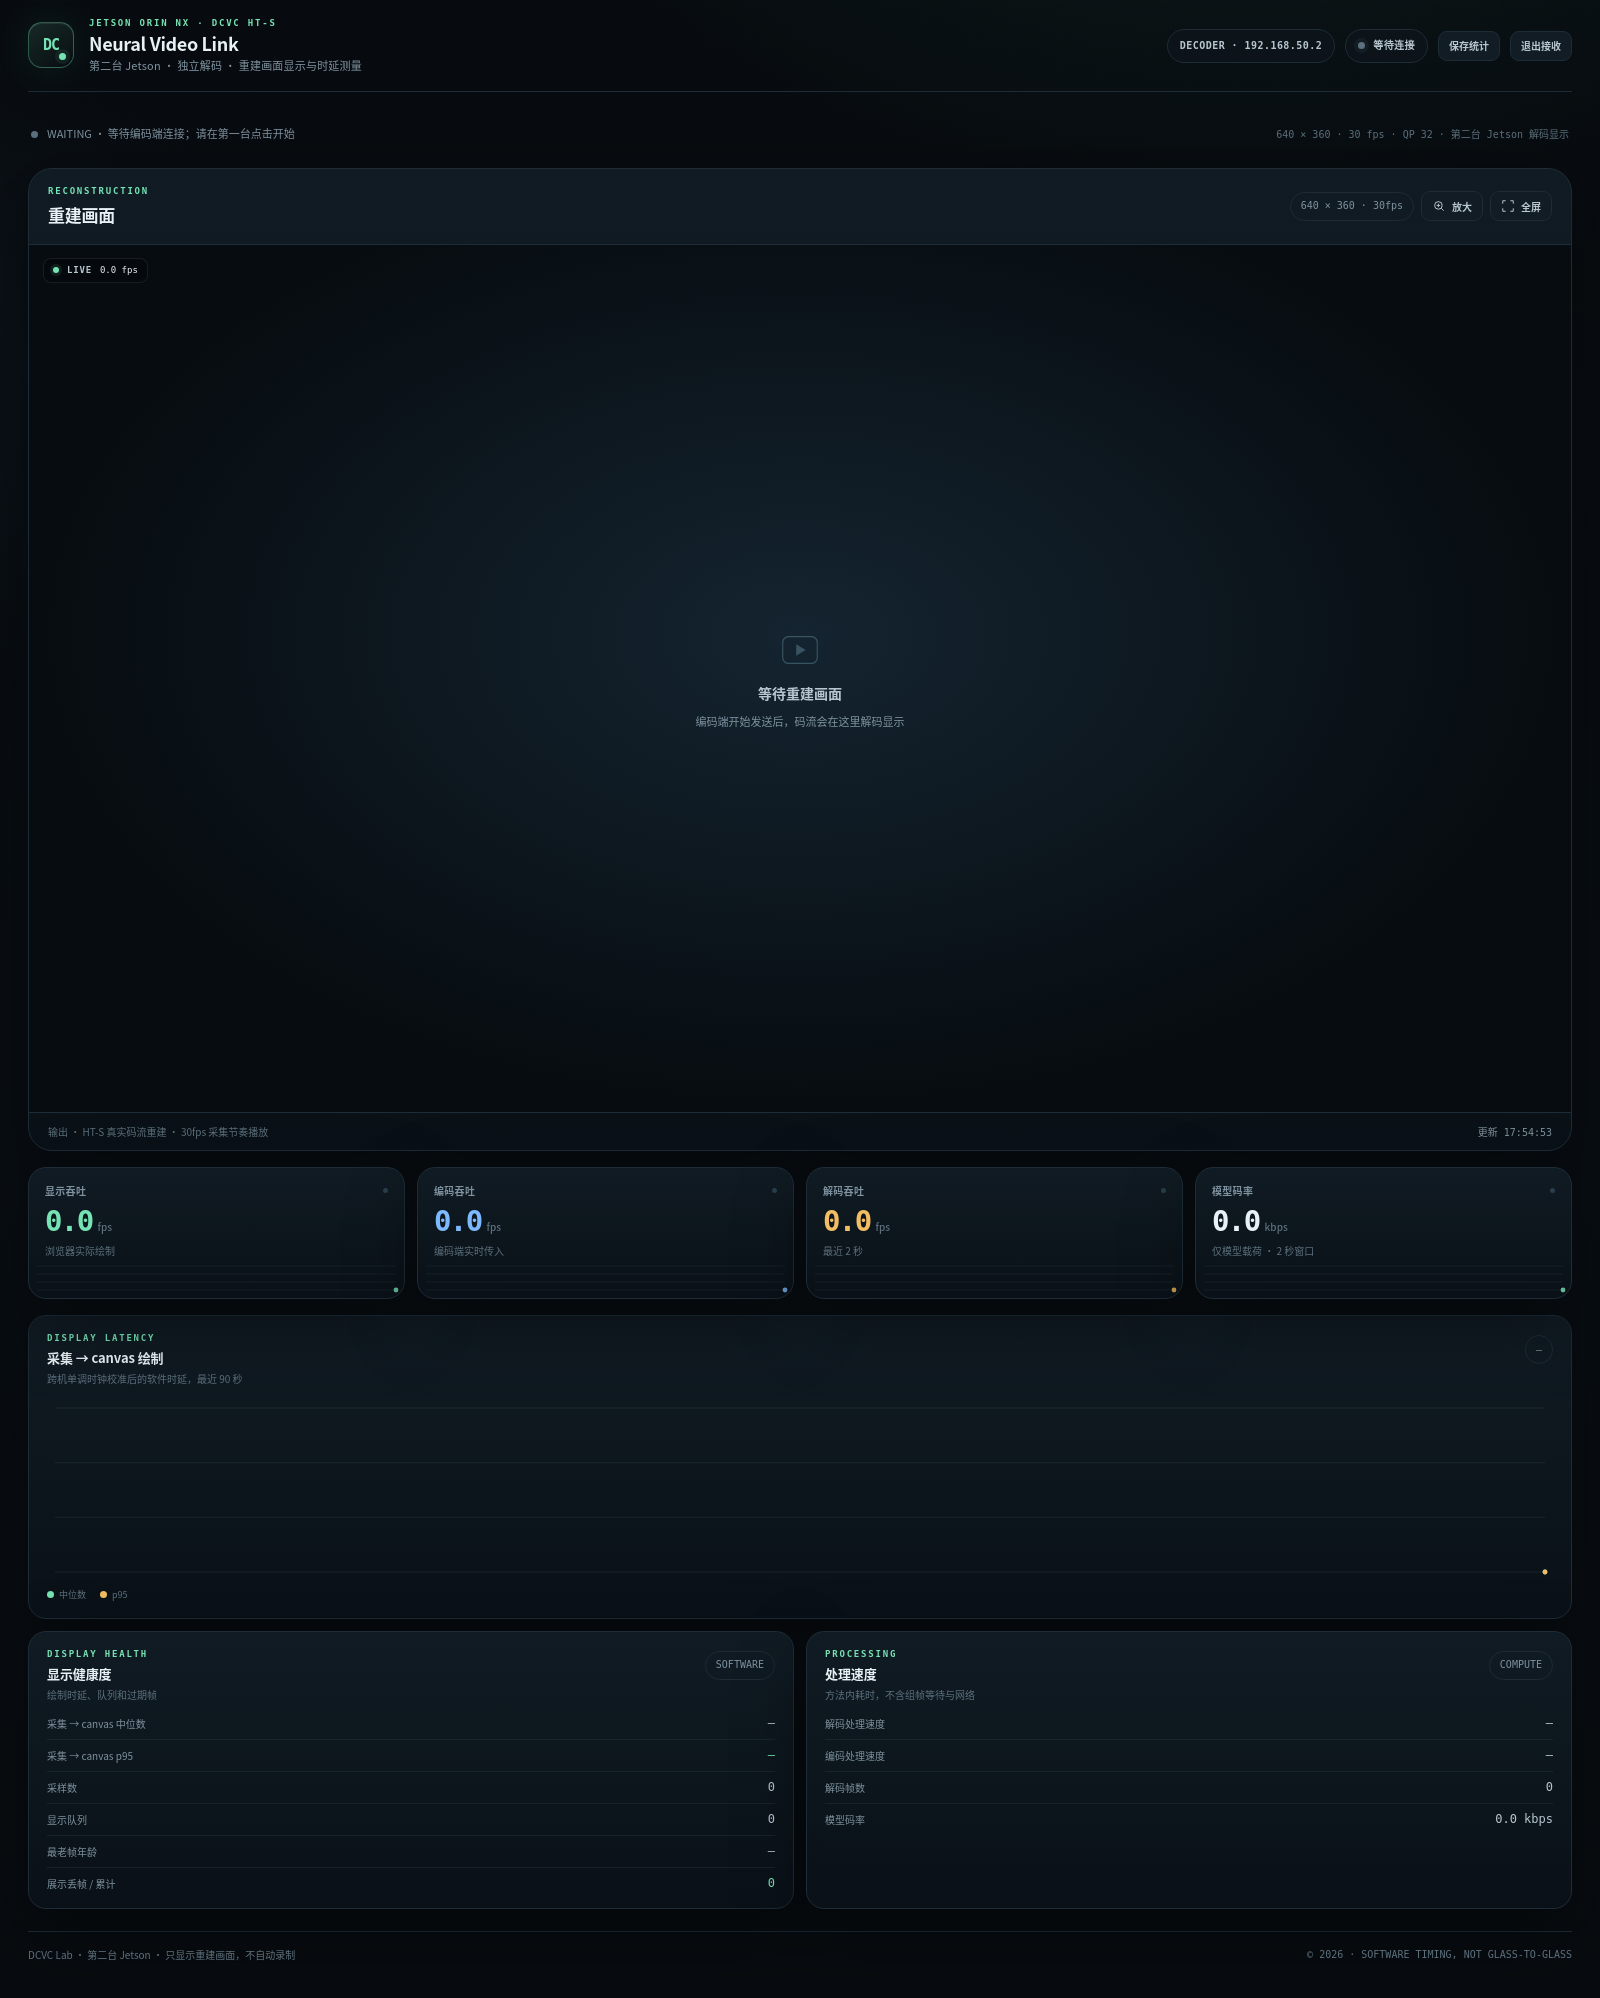
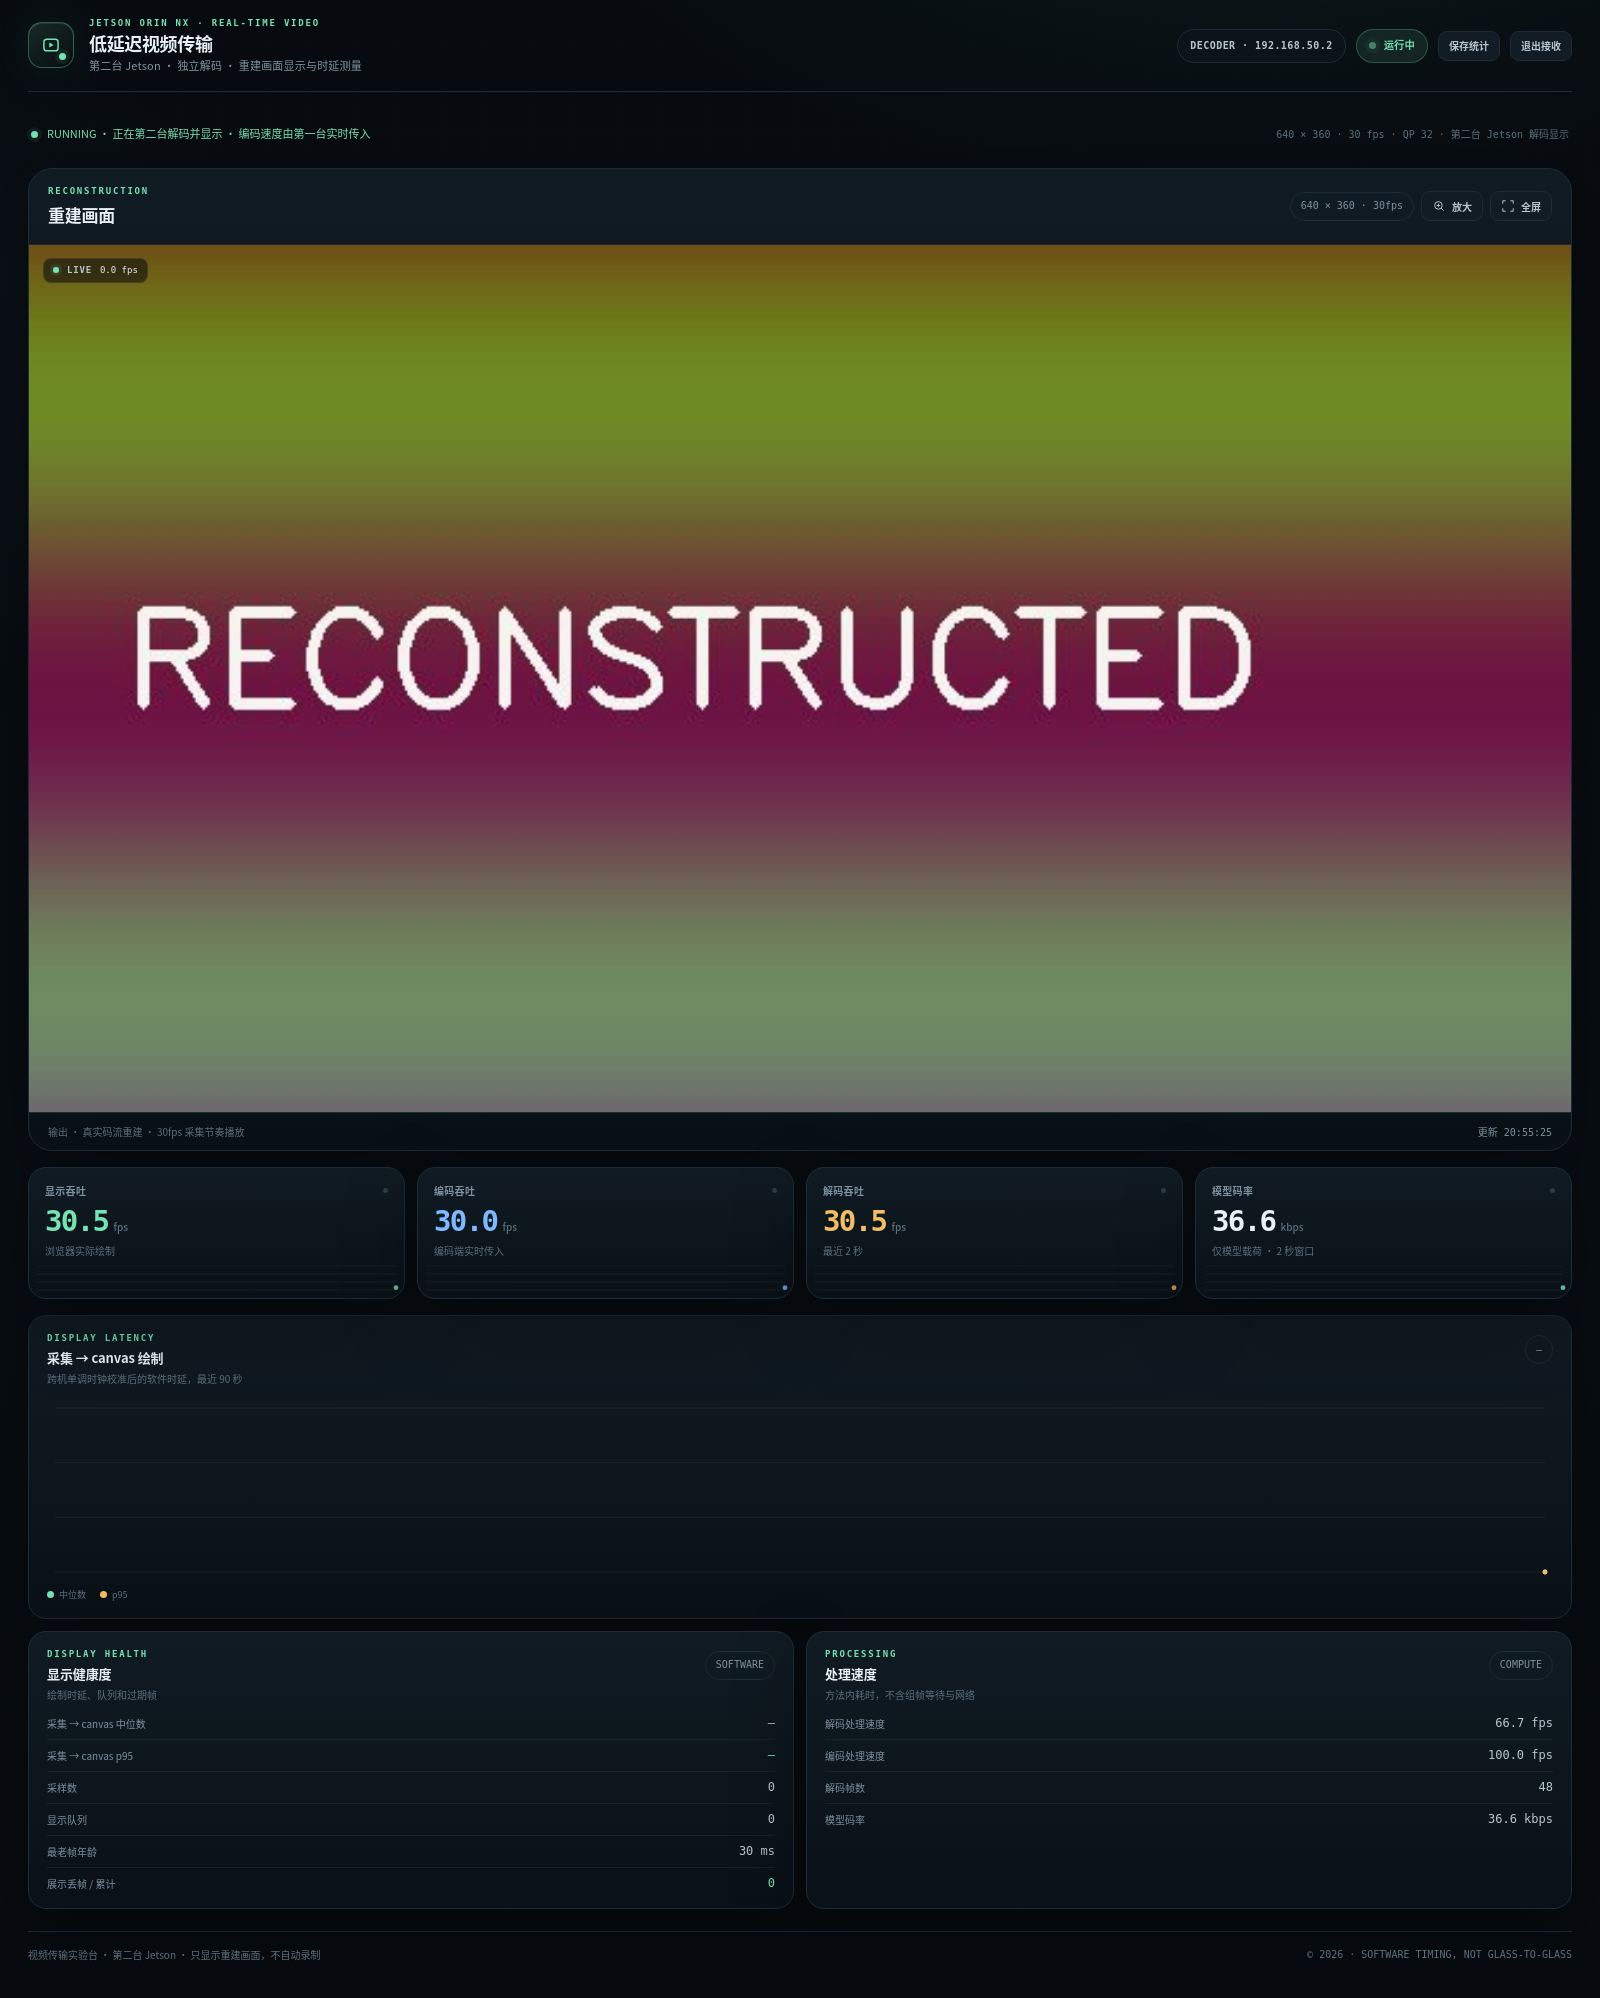
Remove codec branding from presentation pages

diff --git a/demo/web/encoder.html b/demo/web/encoder.html
@@ -4,7 +4,7 @@
   <meta charset="utf-8">
   <meta name="viewport" content="width=device-width, initial-scale=1">
   <meta name="color-scheme" content="dark">
-  <title>DCVC Lab · 编码控制台</title>
+  <title>视频传输控制台</title>
   <link rel="icon" href="/assets/favicon.svg" type="image/svg+xml">
   <link rel="stylesheet" href="/assets/style.css">
 </head>
@@ -12,11 +12,11 @@
   <div class="app">
     <header class="topbar">
       <div class="brand">
-        <div class="brand-mark" aria-hidden="true">DC</div>
+        <div class="brand-mark" aria-hidden="true"><svg viewBox="0 0 24 24" fill="none" stroke="currentColor" stroke-width="1.8" aria-hidden="true"><rect x="3.5" y="5" width="17" height="14" rx="3.5"/><path d="m10 9 5 3-5 3V9Z" fill="currentColor" stroke="none"/></svg></div>
         <div class="brand-copy">
-          <span class="eyebrow">JETSON ORIN NX · DCVC HT-S</span>
-          <h1>Neural Video Link</h1>
-          <p>低码率神经视频压缩 · 双机有线链路 · 端到端延迟实验台</p>
+          <span class="eyebrow">JETSON ORIN NX · REAL-TIME VIDEO</span>
+          <h1>低延迟视频传输</h1>
+          <p>实时采集 · 编码 · 有线传输 · 双机解码 · 端到端延迟实验台</p>
         </div>
       </div>
       <div class="top-meta">
@@ -189,7 +189,7 @@
               <div class="pipeline-bar"><span class="wait" id="pipe-wait" style="width:0"></span><span class="encode" id="pipe-encode" style="width:0"></span><span class="decode" id="pipe-decode" style="width:0"></span></div>
               <div class="pipeline-legend">
                 <div><small>组帧等待</small><b id="lat-wait">—</b></div>
-                <div><small>DCVC 编码</small><b id="lat-encode">—</b></div>
+                <div><small>模型编码</small><b id="lat-encode">—</b></div>
                 <div><small>远端解码</small><b id="lat-decode">—</b></div>
               </div>
             </div>
@@ -217,7 +217,7 @@
     </main>
 
     <footer class="app-footer">
-      <span>DCVC Lab · 本地运行 · 不自动录制 · 统计数据不含视频</span>
+      <span>视频传输实验台 · 本地运行 · 不自动录制 · 统计数据不含视频</span>
       <span>© <span id="footer-year">2026</span> · SOFTWARE TIMING, NOT GLASS-TO-GLASS</span>
     </footer>
   </div>

diff --git a/demo/web/decoder.html b/demo/web/decoder.html
@@ -4,7 +4,7 @@
   <meta charset="utf-8">
   <meta name="viewport" content="width=device-width, initial-scale=1">
   <meta name="color-scheme" content="dark">
-  <title>DCVC Lab · 解码显示端</title>
+  <title>视频解码显示端</title>
   <link rel="icon" href="/assets/favicon.svg" type="image/svg+xml">
   <link rel="stylesheet" href="/assets/style.css">
 </head>
@@ -12,10 +12,10 @@
   <div class="app">
     <header class="topbar">
       <div class="brand">
-        <div class="brand-mark" aria-hidden="true">DC</div>
+        <div class="brand-mark" aria-hidden="true"><svg viewBox="0 0 24 24" fill="none" stroke="currentColor" stroke-width="1.8" aria-hidden="true"><rect x="3.5" y="5" width="17" height="14" rx="3.5"/><path d="m10 9 5 3-5 3V9Z" fill="currentColor" stroke="none"/></svg></div>
         <div class="brand-copy">
-          <span class="eyebrow">JETSON ORIN NX · DCVC HT-S</span>
-          <h1>Neural Video Link</h1>
+          <span class="eyebrow">JETSON ORIN NX · REAL-TIME VIDEO</span>
+          <h1>低延迟视频传输</h1>
           <p>第二台 Jetson · 独立解码 · 重建画面显示与时延测量</p>
         </div>
       </div>
@@ -55,7 +55,7 @@
             <div class="stage-hud"><i class="live-dot"></i>LIVE <span class="fps" id="fps-decoded">0.0 fps</span></div>
           </div>
           <footer class="stage-foot">
-            <span>输出 · HT-S 真实码流重建 · 30fps 采集节奏播放</span>
+            <span>输出 · 真实码流重建 · 30fps 采集节奏播放</span>
             <span id="stage-clock">浏览器绘制实测</span>
           </footer>
         </article>
@@ -132,7 +132,7 @@
     </main>
 
     <footer class="app-footer">
-      <span>DCVC Lab · 第二台 Jetson · 只显示重建画面，不自动录制</span>
+      <span>视频传输实验台 · 第二台 Jetson · 只显示重建画面，不自动录制</span>
       <span>© <span id="footer-year">2026</span> · SOFTWARE TIMING, NOT GLASS-TO-GLASS</span>
     </footer>
   </div>

diff --git a/demo/web/common.js b/demo/web/common.js
@@ -1,5 +1,5 @@
 /* Shared browser helpers for the encoder and decoder consoles. */
-const DCVC = window.DCVC = window.DCVC || {running: false, state: null};
+const APP = window.APP = window.APP || {running: false, state: null};
 const $ = (selector, root = document) => root.querySelector(selector);
 const $$ = (selector, root = document) => Array.from(root.querySelectorAll(selector));
 const clamp = (value, low, high) => Math.min(high, Math.max(low, value));
@@ -108,7 +108,7 @@ async function downloadReport() {
   const matched = /filename=\"?([^\";]+)\"?/.exec(disposition);
   const link = document.createElement('a');
   link.href = URL.createObjectURL(blob);
-  link.download = matched ? matched[1] : 'dcvc-report.json';
+  link.download = matched ? matched[1] : 'video-report.json';
   document.body.append(link);
   link.click();
   link.remove();
@@ -311,7 +311,7 @@ function startFrameLoop({kind, canvasId, fpsId, stale = false, onDraw = null}) {
             drawn += 1;
             if (onDraw) onDraw({sequence: frameSequence, captureUs, drawUs});
           }
-        } else if (response.status === 204 && !DCVC.running) {
+        } else if (response.status === 204 && !APP.running) {
           sequence = 0;
         }
       } catch (error) {
@@ -324,7 +324,7 @@ function startFrameLoop({kind, canvasId, fpsId, stale = false, onDraw = null}) {
         started = now;
         reportDraws();
       }
-      await sleep(Math.max(0, (DCVC.running ? 8 : 120) - (performance.now() - tick)));
+      await sleep(Math.max(0, (APP.running ? 8 : 120) - (performance.now() - tick)));
     }
   })();
 }
@@ -423,7 +423,7 @@ function setupDialogs() {
     if (dialog) {
       if (button.dataset.dialogOpen === 'details-dialog') {
         const pre = document.getElementById('details-json');
-        if (pre) pre.textContent = JSON.stringify(DCVC.state || {}, null, 2);
+        if (pre) pre.textContent = JSON.stringify(APP.state || {}, null, 2);
       }
       dialog.showModal();
     }

diff --git a/demo/web/encoder.js b/demo/web/encoder.js
@@ -6,7 +6,7 @@ const RESOLUTIONS = {
   '720p': [1280, 720],
   '1080p': [1920, 1080],
 };
-const STORAGE_KEY = 'dcvc.encoder.settings.v2';
+const STORAGE_KEY = 'video.encoder.settings.v2';
 const MODE_LABELS = {send: '双机发送', local: '本机编解码', capture: '仅采集检查'};
 
 const sparkCapture = new Sparkline('spark-capture', '#76e3b4');
@@ -95,8 +95,8 @@ function setPipe(id, value) {
 }
 
 function updateState(state) {
-  DCVC.state = state;
-  DCVC.running = state.state === 'running' || state.state === 'starting';
+  APP.state = state;
+  APP.running = state.state === 'running' || state.state === 'starting';
   const settings = state.settings || {};
   const capture = state.capture || {};
   const encode = state.encode || {};

diff --git a/demo/web/style.css b/demo/web/style.css
@@ -1,4 +1,4 @@
-/* DCVC Lab console. Local assets only; no external fonts or libraries. */
+/* Video console. Local assets only; no external fonts or libraries. */
 :root {
   color-scheme: dark;
   --bg: #070b0f;
@@ -77,6 +77,7 @@ a { color: var(--accent); text-decoration: none; }
   font: 700 15px/1 var(--mono);
   letter-spacing: -1px;
 }
+.brand-mark svg { width: 20px; height: 20px; }
 .brand-mark::after {
   content: ""; position: absolute; width: 7px; height: 7px; border-radius: 50%;
   right: 7px; bottom: 7px; background: var(--accent); box-shadow: 0 0 0 4px rgba(118,227,180,.08);

diff --git a/demo/web/decoder.js b/demo/web/decoder.js
@@ -9,8 +9,8 @@ const chartLatency = new SeriesChart('chart-latency', [
 ], {limit: 90});
 
 function updateState(state) {
-  DCVC.state = state;
-  DCVC.running = state.state === 'running' || state.state === 'starting';
+  APP.state = state;
+  APP.running = state.state === 'running' || state.state === 'starting';
   const settings = state.settings || {};
   const preview = state.preview || {};
   const encode = state.encode || {};

diff --git a/demo/codec.py b/demo/codec.py
@@ -96,7 +96,7 @@ class Codec:
         torch.cuda.set_stream(self.stream)
         with torch.inference_mode():
             if len(frames) != (1 if self.first else 8):
-                raise ValueError('HT-S 首帧需 1 帧，其后每组需 8 帧')
+                raise ValueError('模型首帧需 1 帧，其后每组需 8 帧')
             height, width = frames[0].shape[:2]
             # Copy all frames to one contiguous CPU batch, then transfer once. This
             # avoids a CUDA stream submission for every frame in the group.
